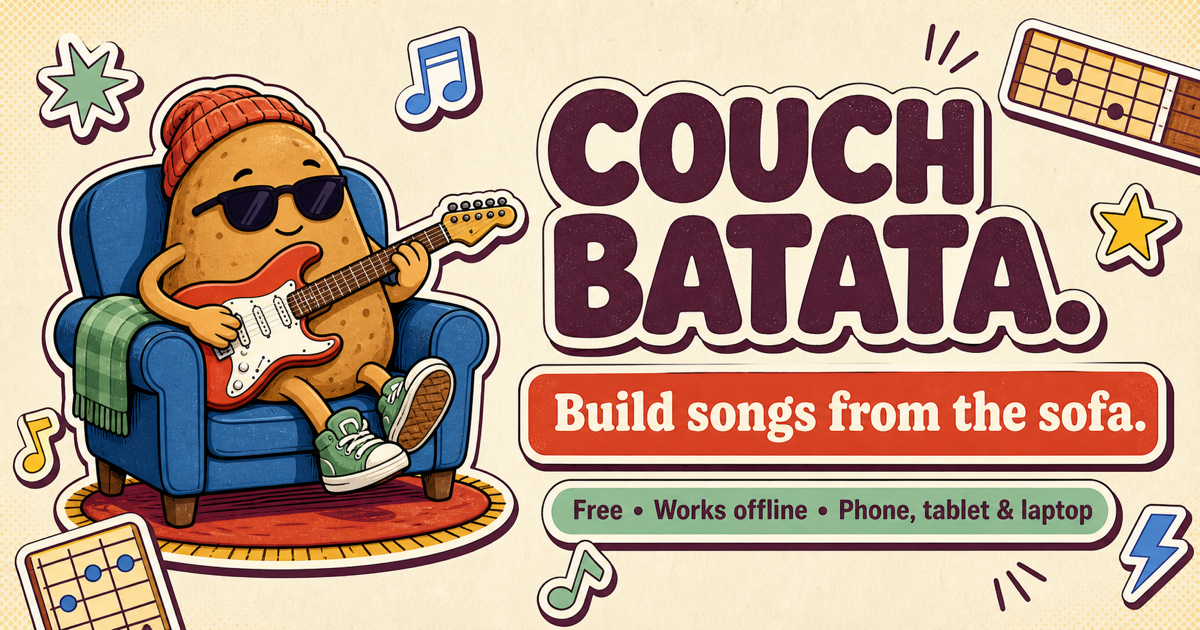
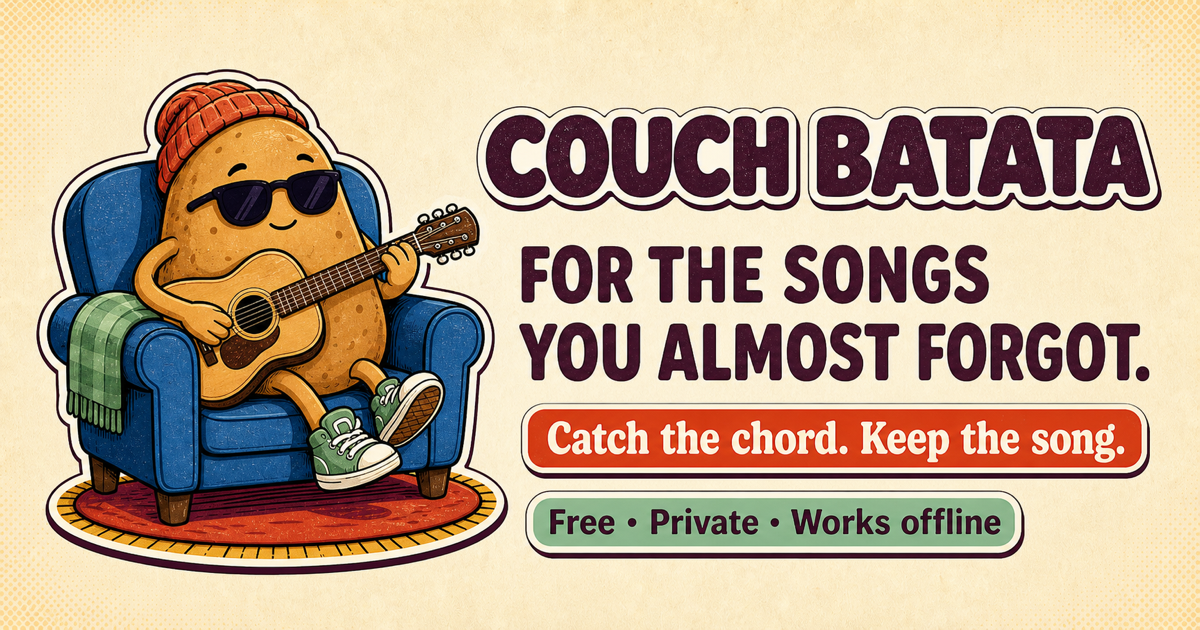
Reposition Couch Batata around song ideas

diff --git a/index.html b/index.html
@@ -4,27 +4,27 @@
 <meta charset="UTF-8">
 <meta name="viewport" content="width=device-width, initial-scale=1.0">
 <meta name="theme-color" content="#e8503a">
-<meta name="description" content="A free guitar chord and song builder for phones, tablets and laptops. Works offline after your first visit.">
+<meta name="description" content="Catch the chord. Keep the song. Tap the notes you played, find the chord, and save the idea before it slips away. Free, private, and works offline.">
 <meta property="og:type" content="website">
-<meta property="og:title" content="Couch Batata — Build songs from the sofa">
-<meta property="og:description" content="A free guitar chord and song builder for phones, tablets and laptops. Works offline after your first visit.">
+<meta property="og:title" content="Couch Batata — Catch the chord. Keep the song.">
+<meta property="og:description" content="Tap the notes you played, find the chord, and save the idea before it slips away. Free, private, and works offline.">
 <meta property="og:url" content="https://shrungardadarkar.github.io/CouchBatata/">
 <meta property="og:image" content="https://shrungardadarkar.github.io/CouchBatata/og.png">
 <meta property="og:image:width" content="1200">
 <meta property="og:image:height" content="630">
-<meta property="og:image:alt" content="Couch Batata — Build songs from the sofa">
+<meta property="og:image:alt" content="Couch Batata — For the songs you almost forgot. Catch the chord. Keep the song.">
 <meta name="twitter:card" content="summary_large_image">
-<meta name="twitter:title" content="Couch Batata — Build songs from the sofa">
-<meta name="twitter:description" content="A free, installable guitar chord and song builder that works offline.">
+<meta name="twitter:title" content="Couch Batata — Catch the chord. Keep the song.">
+<meta name="twitter:description" content="Tap the notes you played, find the chord, and save the idea before it slips away. Free, private, and works offline.">
 <meta name="twitter:image" content="https://shrungardadarkar.github.io/CouchBatata/og.png">
 <meta name="apple-mobile-web-app-capable" content="yes">
 <meta name="apple-mobile-web-app-status-bar-style" content="default">
 <meta name="apple-mobile-web-app-title" content="Couch Batata">
-<meta name="application-title" content="A tab builder for singer-songwriters">
+<meta name="application-title" content="Couch Batata — Catch the chord. Keep the song.">
 <link rel="manifest" href="./manifest.webmanifest">
 <link rel="apple-touch-icon" sizes="180x180" href="./apple-touch-icon-v2.png">
 <link rel="icon" type="image/png" sizes="192x192" href="./icon-192-v2.png">
-<title>A tab builder for singer-songwriters</title>
+<title>Couch Batata — Catch the chord. Keep the song.</title>
 <style>
   :root{
     /* Y2K retro-desktop palette — refined against reference sheets */
@@ -770,7 +770,7 @@
     <img class="mascot" alt="A potato relaxing on a couch and playing an acoustic guitar" src="./mascot-v2.png">
     <div class="header-title">
       <h1>Couch Batata<span class="dot">.</span></h1>
-      <p class="header-subtitle">A tab builder for singer-songwriters</p>
+      <p class="header-subtitle">Catch the chord. Keep the song.</p>
     </div>
   </div>
 </header>
@@ -794,7 +794,7 @@
 </aside>
 
 <div class="wrap">
-<p class="tagline">Every string begins open. Tap a fret to move that string’s note, or tap its open note on the nut to mute it. Couch Batata names the chord, drops it into the active section, and suggests scales for soloing over the whole progression.</p>
+<p class="tagline"><strong>For the songs you almost forgot.</strong> Tap the notes you played, find the chord, and save the idea before it slips away. Then build it into a song.</p>
 
 <div class="panel scale-panel win-mint" data-win="Key & Scales" id="scalePanel" hidden>
   <button class="scale-panel-header" id="scalePanelHeader" aria-expanded="false">
@@ -3629,7 +3629,7 @@ function buildExportText(){
     }
     L.push('');
   }
-  L.push('made with Couch Batata');
+  L.push('made with Couch Batata — Catch the chord. Keep the song. https://shrungardadarkar.github.io/CouchBatata/');
   return L.join('\n');
 }
 function showExport(){

diff --git a/sw.js b/sw.js
@@ -1,4 +1,4 @@
-const CACHE_NAME = "couch-batata-v53";
+const CACHE_NAME = "couch-batata-v54";
 const APP_URL = new URL("./index.html", self.registration.scope).href;
 const APP_SHELL = [
   "./index.html",

diff --git a/README.md b/README.md
@@ -1,11 +1,11 @@
-# Couch Batata - A tab builder for singer-songwriter.
+# Couch Batata — Catch the chord. Keep the song.
 
-**Explore Chords, Scales, Progressions and Create Tabs; always create music.**
+**For the songs you almost forgot.**
 
-Couch Batata is a free, installable guitar chord and song builder for phones,
-tablets, and laptops. Pick notes on the fretboard, identify the chord, arrange
-sections, add lyrics, inspect key and scale suggestions, and export a portable
-chord chart.
+Couch Batata is a free, private guitar chord finder and song builder for phones,
+tablets, and laptops. Tap the notes you played, identify the chord, save the
+shape or progression while the idea is fresh, and keep building the song. It
+works offline after the first visit and does not require an account.
 
 ## Why I built Couch Batata
 
@@ -36,6 +36,8 @@ it.
 Once GitHub Pages is enabled, the public app is available at:
 
 **https://shrungardadarkar.github.io/CouchBatata/**
+
+**[Try Couch Batata](https://shrungardadarkar.github.io/CouchBatata/)**
 
 The link can be shared through WhatsApp, LinkedIn, email, or any other service.
 Users do not need an app-store download.

diff --git a/CHANGELOG.md b/CHANGELOG.md
@@ -1,5 +1,16 @@
 # Changelog
 
+## 2026-07-20 — Catch the chord. Keep the song.
+
+- Repositioned Couch Batata around its real purpose: preserving the guitar
+  ideas that might otherwise be lost.
+- Replaced the former “Build songs from the sofa” share-card message with
+  “For the songs you almost forgot. Catch the chord. Keep the song.”
+- Updated the app header, browser/installable-app text, GitHub README, social
+  metadata, and exported-chart credit line to use the new positioning.
+- Replaced the WhatsApp/LinkedIn preview with a calmer, acoustic-guitar mascot
+  card designed to stay readable at small sizes.
+
 ## 2026-07-20 — Builder story
 
 - Added the creator’s story to the README: the need to preserve voice-memo

diff --git a/PROJECT.md b/PROJECT.md
@@ -3,7 +3,9 @@
 ## Product
 
 Couch Batata helps guitarists capture a song idea without needing notation
-software. The primary loop is:
+software. Its brand promise is **“Catch the chord. Keep the song.”** It exists
+for the songs a player might otherwise almost forget: an idea their hands found
+before they knew its name. The primary loop is:
 
 1. Select or mute notes on a guitar fretboard.
 2. Review the identified chord and alternate interpretations.